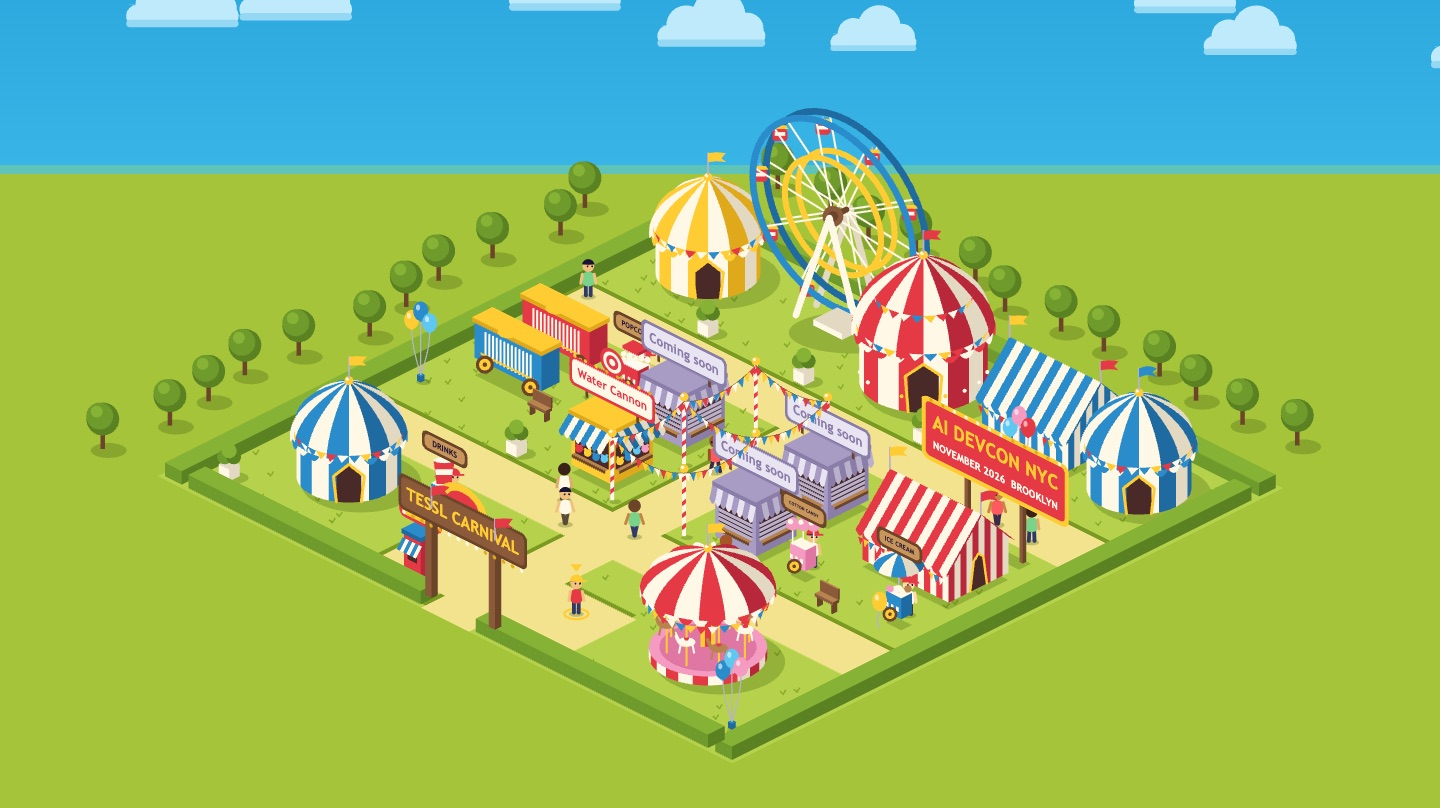
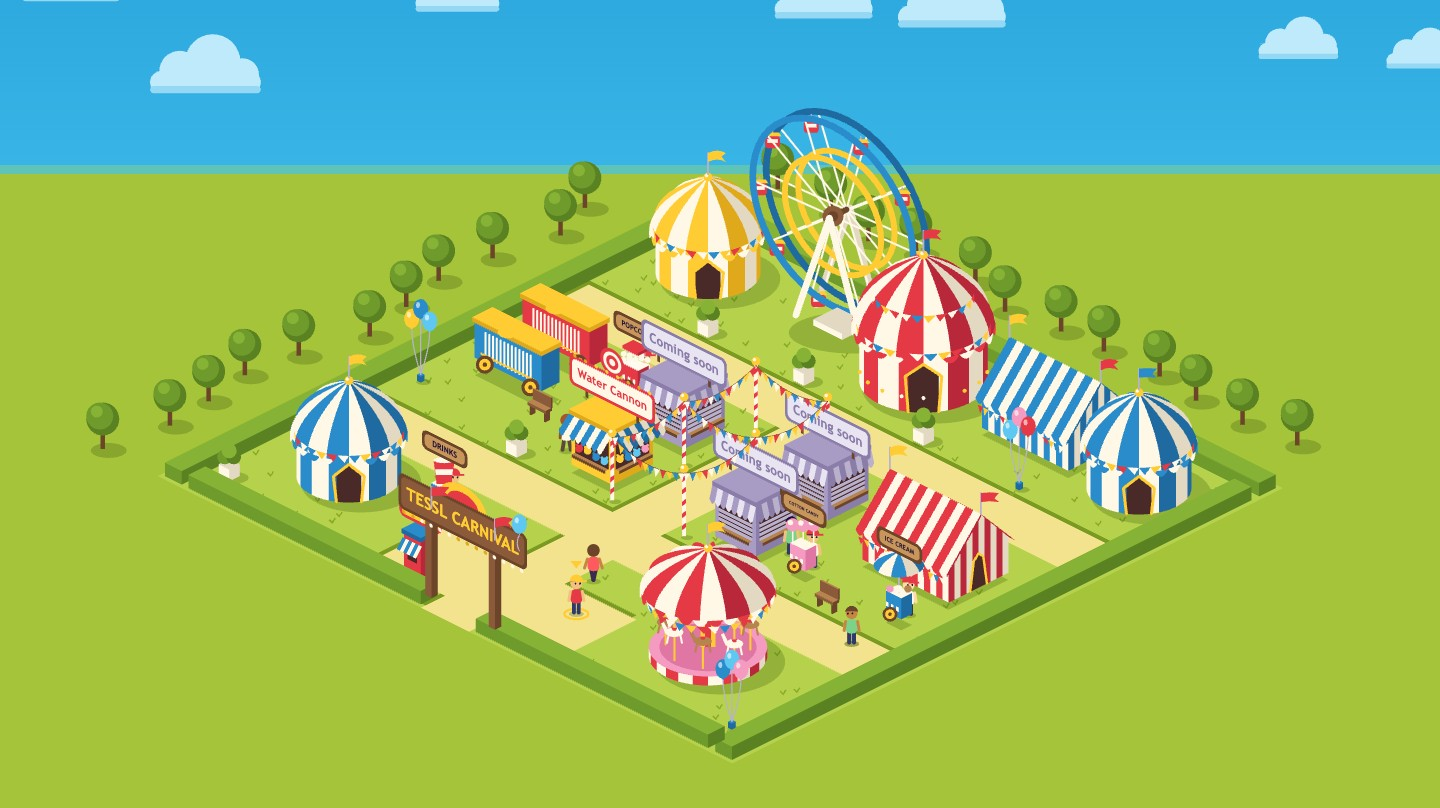
Remove AI Native DevCon references so the carnival fits any event (#48)

diff --git a/src/midway/render.ts b/src/midway/render.ts
@@ -1,5 +1,4 @@
 import { canvasFont, theme } from '../carnival';
-import bannerUrl from './aidevcon-banner.png';
 import { palette } from './palette';
 import {
   CART_KINDS,
@@ -1104,108 +1103,6 @@ function balloons(ctx: Ctx, prop: Prop, t: number) {
   }
 }
 
-/** How high a billboard's sign stands, to the bottom of its board. */
-const BILLBOARD_HEIGHT = 40;
-
-/**
- * The billboard's sign, in plane-local pixels: the banner plus its gold frame.
- * The board keeps the banner image's shape, 4 by 1.
- */
-const BILLBOARD_SIGN = { width: 144, height: 36, frame: 3 };
-
-let banner: HTMLImageElement | undefined;
-
-/** The AI DevCon banner, loaded the first time the billboard is drawn. */
-function bannerImage(): HTMLImageElement {
-  if (!banner) {
-    banner = new Image();
-    banner.src = bannerUrl;
-  }
-  return banner;
-}
-
-/** Where a billboard's posts stand, and the point its sign is centred on. */
-function billboardFrame(prop: Prop) {
-  const y = prop.y + 0.5;
-  const left = prop.x + 0.35;
-  const right = prop.x + prop.w - 0.35;
-  return { y, left, right, centre: at((left + right) / 2, y, BILLBOARD_HEIGHT + 18) };
-}
-
-/**
- * The screen box a billboard covers, sign and posts, for clicks and fading.
- * The sign sits on a slanted plane (see onPlane), so its corners are mapped
- * with the same 0.894 and 0.447 factors.
- */
-function billboardBounds(prop: Prop): Box {
-  const { y, left, right, centre } = billboardFrame(prop);
-  const halfWidth = BILLBOARD_SIGN.width / 2 + BILLBOARD_SIGN.frame;
-  const halfHeight = BILLBOARD_SIGN.height / 2 + BILLBOARD_SIGN.frame;
-  const feet = [at(left, y), at(right, y)];
-  return {
-    left: Math.min(centre[0] - 0.894 * halfWidth, ...feet.map((p) => p[0])),
-    right: Math.max(centre[0] + 0.894 * halfWidth, ...feet.map((p) => p[0])),
-    top: centre[1] - 0.447 * halfWidth - halfHeight,
-    bottom: Math.max(centre[1] + 0.447 * halfWidth + halfHeight, ...feet.map((p) => p[1])),
-  };
-}
-
-/** The AI DevCon billboard: the event banner, lit, on two posts. Clicking it opens the event page. */
-function billboard(ctx: Ctx, prop: Prop, t: number) {
-  const { y, left, right, centre } = billboardFrame(prop);
-  poly(
-    ctx,
-    rectPoints({ x: prop.x + 0.3, y: prop.y + 0.4, w: prop.w - 0.4, h: 0.5 }),
-    palette.shadow,
-  );
-  for (const px of [left, right]) {
-    box(
-      ctx,
-      px - 0.07,
-      y - 0.07,
-      0.14,
-      0.14,
-      0,
-      BILLBOARD_HEIGHT + 12,
-      palette.woodLight,
-      palette.wood,
-      palette.woodDark,
-    );
-  }
-  onPlane(ctx, centre, () => {
-    const { width, height, frame } = BILLBOARD_SIGN;
-    ctx.fillStyle = palette.gold;
-    ctx.beginPath();
-    ctx.roundRect(
-      -width / 2 - frame,
-      -height / 2 - frame,
-      width + frame * 2,
-      height + frame * 2,
-      5,
-    );
-    ctx.fill();
-    ctx.fillStyle = palette.ink;
-    ctx.beginPath();
-    ctx.roundRect(-width / 2, -height / 2, width, height, 3);
-    ctx.fill();
-    // Until the banner loads, the board stays plain.
-    const image = bannerImage();
-    if (image.complete && image.naturalWidth > 0) {
-      ctx.save();
-      ctx.clip();
-      ctx.imageSmoothingQuality = 'high';
-      ctx.drawImage(image, -width / 2, -height / 2, width, height);
-      ctx.restore();
-    }
-    for (let i = 0; i < 12; i++) {
-      ctx.fillStyle = Math.sin(t * 4 - i * 0.7) > 0 ? palette.cream : palette.goldShade;
-      ctx.beginPath();
-      ctx.arc(-width / 2 + 4 + i * ((width - 8) / 11), -height / 2 - 1.5, 1.2, 0, Math.PI * 2);
-      ctx.fill();
-    }
-  });
-}
-
 /** How high the top of a bunting pole is. */
 const POLE_HEIGHT = 44;
 
@@ -1571,12 +1468,10 @@ const PROP_HEIGHTS: Record<Prop['kind'], number> = {
   planter: 22,
   balloons: 52,
   'bunting-pole': 0,
-  billboard: BILLBOARD_HEIGHT + 40,
 };
 
 /** Roughly the screen box a prop is drawn in. */
 export function propBounds(prop: Prop): Box {
-  if (prop.kind === 'billboard') return billboardBounds(prop);
   const c = toScreen(prop.x + prop.w / 2, prop.y + prop.h / 2);
   const half = ((prop.w + prop.h) * 16) / 2;
   const footprint = ((prop.w + prop.h) * 8) / 2;
@@ -1772,8 +1667,6 @@ export function drawProp(ctx: Ctx, prop: Prop, t: number) {
       return balloons(ctx, prop, t);
     case 'bunting-pole':
       return buntingPole(ctx, prop);
-    case 'billboard':
-      return billboard(ctx, prop, t);
   }
 }
 

diff --git a/src/midway/midway.ts b/src/midway/midway.ts
@@ -68,8 +68,6 @@ const MOVE_KEYS: Record<string, [number, number]> = {
   KeyD: [1, 0],
 };
 const PLAY_KEYS = new Set(['KeyE', 'Enter', 'Space']);
-const DEVCON_URL =
-  'https://tessl.io/devcon?utm_source=carnival&utm_medium=midway-billboard&utm_campaign=tessl-carnival';
 const MIN_QUALITY = 0.5;
 
 /** Where the player stood when they last left the midway, for this page load. */
@@ -179,13 +177,6 @@ export function startMidway(canvas: HTMLCanvasElement, options: MidwayOptions): 
       })
       .sort((a, b) => b.x + b.y - (a.x + a.y))[0];
 
-  const billboardAt = (point: Point) =>
-    map.props.some((prop) => {
-      if (prop.kind !== 'billboard') return false;
-      const b = propBounds(prop);
-      return point.x >= b.left && point.x <= b.right && point.y >= b.top && point.y <= b.bottom;
-    });
-
   const walkToBooth = (booth: BoothSlot) => {
     player.path = pathToBooth(map, player, booth) ?? [];
     destination = player.path.at(-1);
@@ -194,10 +185,6 @@ export function startMidway(canvas: HTMLCanvasElement, options: MidwayOptions): 
   const onPointerDown = (event: PointerEvent) => {
     const point = toWorld(event);
     const booth = boothAt(point);
-    if (!booth && billboardAt(point)) {
-      window.open(DEVCON_URL, '_blank', 'noopener');
-      return;
-    }
     if (booth) {
       if (booth === inReach) play(booth);
       else walkToBooth(booth);
@@ -211,7 +198,7 @@ export function startMidway(canvas: HTMLCanvasElement, options: MidwayOptions): 
   };
   const onPointerMove = (event: PointerEvent) => {
     const point = toWorld(event);
-    canvas.style.cursor = boothAt(point) || billboardAt(point) ? 'pointer' : 'default';
+    canvas.style.cursor = boothAt(point) ? 'pointer' : 'default';
   };
 
   window.addEventListener('keydown', onKeyDown);

diff --git a/index.html b/index.html
@@ -10,7 +10,7 @@
     <title>Tessl Carnival</title>
     <meta
       name="description"
-      content="A browser carnival grown by a software factory: label an issue and an agent ships a new game. Built with Tessl at AI DevCon NYC."
+      content="A browser carnival grown by a software factory: label an issue and an agent ships a new game. Built with Tessl."
     />
     <!-- Link previews on LinkedIn, X and Slack. The image URL is absolute, so it
          works from every fork's GitHub Pages site. -->
@@ -18,7 +18,7 @@
     <meta property="og:title" content="Tessl Carnival" />
     <meta
       property="og:description"
-      content="A browser carnival grown by a software factory: label an issue and an agent ships a new game. Built with Tessl at AI DevCon NYC."
+      content="A browser carnival grown by a software factory: label an issue and an agent ships a new game. Built with Tessl."
     />
     <meta
       property="og:image"

diff --git a/src/midway/world.ts b/src/midway/world.ts
@@ -47,8 +47,7 @@ export type PropKind =
   | 'bench'
   | 'planter'
   | 'balloons'
-  | 'bunting-pole'
-  | 'billboard';
+  | 'bunting-pole';
 
 export interface Prop extends Rect {
   kind: PropKind;
@@ -181,8 +180,6 @@ export function layoutMidway(gameIds: readonly string[]): MidwayMap {
 
   // Beside the booths: wagons and carts on the left, a tent and carts on the right.
   const side = FIRST_ROW_Y;
-  // A billboard for AI DevCon, rising above the peaked tent on the right.
-  add('billboard', 19, side - 1, 3, 1);
   add('wagon', 2, side, 3, 1, 0);
   add('wagon', 2, side + 2, 3, 1, 1);
   add('cart', 6, side, 1, 1, 0);

diff --git a/src/main.ts b/src/main.ts
@@ -27,8 +27,6 @@ function renderMidway() {
       <p class="midway-credit">
         Built with
         <a href="https://tessl.io/?utm_source=carnival&amp;utm_medium=midway-credit&amp;utm_campaign=tessl-carnival" target="_blank" rel="noopener">Tessl</a>
-        at
-        <a href="https://tessl.io/devcon?utm_source=carnival&amp;utm_medium=midway-credit&amp;utm_campaign=tessl-carnival" target="_blank" rel="noopener">AI DevCon NYC</a>
         <span class="midway-links">
           <a href="${REPO_URL}" target="_blank" rel="noopener">Build your own</a>
           <span class="midway-share" hidden>

diff --git a/src/share.ts b/src/share.ts
@@ -2,7 +2,7 @@
 export const REPO_URL = 'https://github.com/tesslio/tessl-carnival';
 
 const SHARE_TEXT =
-  'I built a software factory on a browser carnival at AI DevCon NYC with @tessl_io. Play my carnival:';
+  'I built a software factory on a browser carnival with @tessl_io. Play my carnival:';
 
 /**
  * The address to share for the carnival at `href`: the page itself, without

diff --git a/README.md b/README.md
@@ -1,6 +1,5 @@
 # Tessl Carnival
 
-[![AI DevCon NYC, 2 to 4 November 2026](https://img.shields.io/badge/AI%20DevCon%20NYC-2--4%20Nov%202026-e63946)](https://tessl.io/devcon?utm_source=github&utm_medium=readme&utm_campaign=tessl-carnival)
 [![Play the carnival](https://img.shields.io/badge/Play-the%20carnival-ffcc33)](https://tesslio.github.io/tessl-carnival/)
 [![Built with Tessl](https://img.shields.io/badge/Built%20with-Tessl-1b1035)](https://tessl.io/?utm_source=github&utm_medium=readme&utm_campaign=tessl-carnival)
 [![Join the Tessl Discord](https://img.shields.io/badge/Discord-Join%20us-5865F2?logo=discord&logoColor=white)](https://discord.com/invite/jbb2vHnHZQ?utm_source=github&utm_medium=readme&utm_campaign=tessl-carnival)
@@ -23,10 +22,8 @@ code review checks the result before you merge.
 ## The workshop
 
 Tessl Carnival is the starter repo for **Build your own software factory with
-context**, a 90-minute hands-on workshop at
-**[AI Native DevCon NYC](https://tessl.io/devcon?utm_source=github&utm_medium=readme&utm_campaign=tessl-carnival)**, November 2 to 4, 2026 at Industry City,
-Brooklyn. Everyone in the room builds on this same repo, so you can compare
-notes with the person next to you.
+context**, a 90-minute hands-on workshop. Everyone in the room builds on this
+same repo, so you can compare notes with the person next to you.
 
 The room comes together three times: a 10-minute kick-off, a checkpoint and
 show and tell. The rest you do at your own pace. Start at
@@ -66,13 +63,7 @@ on Windows. Not with npm: that package is deprecated.
 your hand at any point and one of us will come over.
 
 **After the session,** your carnival stays live at your Pages link, so keep
-building it during DevCon, and come and find us at the Tessl booth to go
-further.
-
-**Not in the room?** AI DevCon is where developers and teams building software
-factories compare notes. Get a [free virtual ticket](https://luma.com/aidevcon-nyc2026?utm_source=github&utm_medium=readme&utm_campaign=tessl-carnival), or watch the
-[talks from AI DevCon London](https://www.youtube.com/watch?v=KpfnldJO3Iw&list=PLISstAySqk7KtlYPFps1ZnK9xNIMSVkDD), with speakers from Anthropic, Google
-DeepMind, Meta, Netlify, Thoughtworks and Docker.
+building it, and come and find us to go further.
 
 ## The carnival
 
@@ -202,7 +193,7 @@ Show people where yours went:
 - **Post it in [Show your carnival](https://github.com/tesslio/tessl-carnival/discussions/13)** as soon as you finish the core
   path, so the room can see how everyone's doing: your carnival's link, what
   your factory built, and one thing it got right and one it got wrong.
-- **Share it on [X](https://x.com/intent/post?text=I%20built%20a%20software%20factory%20on%20a%20browser%20carnival%20at%20AI%20DevCon%20NYC%20with%20%40tessl_io&url=https%3A%2F%2Fgithub.com%2Ftesslio%2Ftessl-carnival)
+- **Share it on [X](https://x.com/intent/post?text=I%20built%20a%20software%20factory%20on%20a%20browser%20carnival%20with%20%40tessl_io&url=https%3A%2F%2Fgithub.com%2Ftesslio%2Ftessl-carnival)
   or [LinkedIn](https://www.linkedin.com/sharing/share-offsite/?url=https%3A%2F%2Fgithub.com%2Ftesslio%2Ftessl-carnival):**
   add your carnival's link and tag Tessl, so we can see what you built.
 - **Star this repo** if it helped, so other people find it.
@@ -266,8 +257,7 @@ use, including Claude Code, Cursor and Codex.
   [Tessl Registry](https://tessl.io/registry?utm_source=github&utm_medium=readme&utm_campaign=tessl-carnival),
   [blog](https://tessl.io/blog?utm_source=github&utm_medium=readme&utm_campaign=tessl-carnival) and
   [podcast](https://tessl.io/podcast?utm_source=github&utm_medium=readme&utm_campaign=tessl-carnival).
-- **Talk to us:** [Discord](https://discord.com/invite/jbb2vHnHZQ?utm_source=github&utm_medium=readme&utm_campaign=tessl-carnival), or come to the next
-  [AI DevCon](https://tessl.io/devcon?utm_source=github&utm_medium=readme&utm_campaign=tessl-carnival).
+- **Talk to us:** [Discord](https://discord.com/invite/jbb2vHnHZQ?utm_source=github&utm_medium=readme&utm_campaign=tessl-carnival).
 - **Follow along:** [LinkedIn](https://linkedin.com/company/tesslio/),
   [X](https://x.com/tessl_io) and [YouTube](https://www.youtube.com/@tessl-ai).
 

diff --git a/workshop/agent.md b/workshop/agent.md
@@ -482,9 +482,8 @@ fix without you?
 
 ## Keep building after the session
 
-Your carnival stays live at your Pages link, so keep adding to it during
-DevCon. Come and find us at the Tessl booth to go further, for example to set
-up a loop on your own repository.
+Your carnival stays live at your Pages link, so keep adding to it. Come and
+find us to go further, for example to set up a loop on your own repository.
 
 ## Credits
 

diff --git a/workshop/browser.md b/workshop/browser.md
@@ -343,9 +343,8 @@ fix without you?
 
 ## Keep building after the session
 
-Your carnival stays live at your Pages link, so keep adding to it during
-DevCon. Come and find us at the Tessl booth to go further, for example to set
-up a loop on your own repository.
+Your carnival stays live at your Pages link, so keep adding to it. Come and
+find us to go further, for example to set up a loop on your own repository.
 
 ## Credits
 
